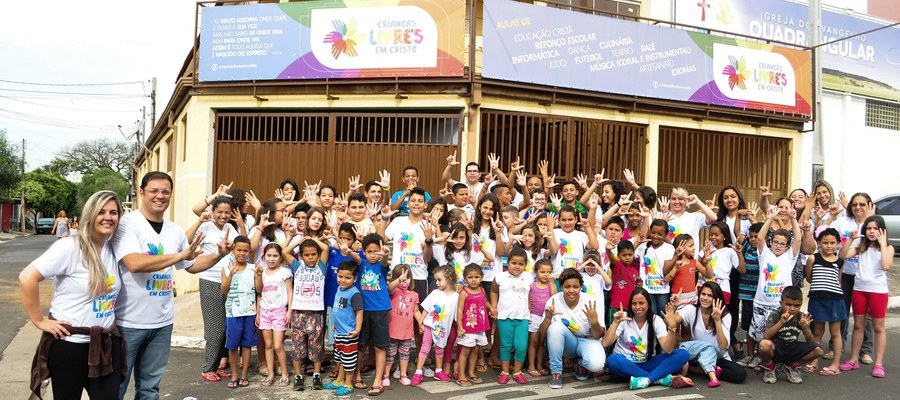
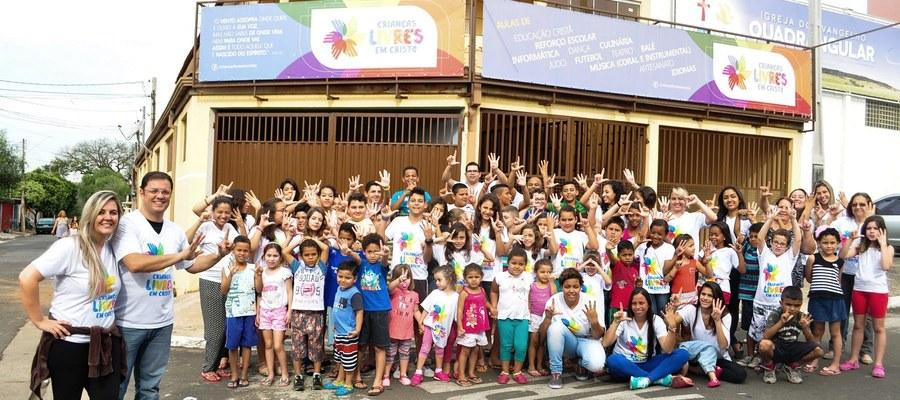
Corrige apontamentos da revisão: CI, hover do menu, layout e contraste do rodapé, e otimização de imagens

diff --git a/_includes/footer.html b/_includes/footer.html
@@ -30,15 +30,15 @@
                            <h4 class="footer-title">Google &amp; Rotas<span class="title-under"></span></h4>
                            <div class="footer-content">
                                <div class="footer-btn-group">
-                                   <a href="https://share.google/6BwTFtGyFWWkxHZKV" target="_blank" rel="noopener noreferrer" class="footer-btn footer-btn-google" aria-label="Avalie e pesquise a ALEC no Google">
+                                   <a href="https://share.google/6BwTFtGyFWWkxHZKV" target="_blank" rel="noopener noreferrer" class="footer-btn footer-btn-google">
                                        {% include icone.html nome="google" %}
-                                       <span>Google <strong>5.0 ★</strong></span>
+                                       <span>Google Avaliações</span>
                                    </a>
-                                   <a href="https://maps.app.goo.gl/Me2wtAXifTX4nmbC6" target="_blank" rel="noopener noreferrer" class="footer-btn footer-btn-maps" aria-label="Ver localização no Google Maps">
+                                   <a href="https://maps.app.goo.gl/Me2wtAXifTX4nmbC6" target="_blank" rel="noopener noreferrer" class="footer-btn footer-btn-maps">
                                        {% include icone.html nome="local" %}
                                        <span>Google Mapas</span>
                                    </a>
-                                   <a href="https://ul.waze.com/ul?place=ChIJL2dBZ3GbyJQRQBOxPps2tz0&ll=-22.71400230%2C-47.35630850&navigate=yes&utm_campaign=default&utm_source=waze_website&utm_medium=lm_share_location" target="_blank" rel="noopener noreferrer" class="footer-btn footer-btn-waze" aria-label="Navegar até a ALEC com o Waze">
+                                   <a href="https://ul.waze.com/ul?place=ChIJL2dBZ3GbyJQRQBOxPps2tz0&ll=-22.71400230%2C-47.35630850&navigate=yes&utm_campaign=default&utm_source=waze_website&utm_medium=lm_share_location" target="_blank" rel="noopener noreferrer" class="footer-btn footer-btn-waze">
                                        {% include icone.html nome="waze" %}
                                        <span>Waze GPS</span>
                                    </a>
@@ -47,22 +47,22 @@
                        </div>
                    </div>
 
-                   <div class="clearfix visible-sm-block"></div>
+                   <div class="footer-clear-sm"></div>
 
                    <div class="col-md-3 col-sm-6">
                        <div class="footer-col">
                            <h4 class="footer-title">Redes Sociais<span class="title-under"></span></h4>
                            <div class="footer-content">
                                <div class="footer-btn-group">
-                                   <a href="https://www.instagram.com/eusoualec/" target="_blank" rel="noopener noreferrer" class="footer-btn footer-btn-instagram" aria-label="Perfil da ALEC no Instagram">
+                                   <a href="https://www.instagram.com/eusoualec/" target="_blank" rel="noopener noreferrer" class="footer-btn footer-btn-instagram">
                                        {% include icone.html nome="instagram" %}
                                        <span>Instagram</span>
                                    </a>
-                                   <a href="https://www.facebook.com/eusoualec/" target="_blank" rel="noopener noreferrer" class="footer-btn footer-btn-facebook" aria-label="Página da ALEC no Facebook">
+                                   <a href="https://www.facebook.com/eusoualec/" target="_blank" rel="noopener noreferrer" class="footer-btn footer-btn-facebook">
                                        {% include icone.html nome="facebook" %}
                                        <span>Facebook</span>
                                    </a>
-                                   <a href="https://www.youtube.com/@alec-associa%C3%A7%C3%A3olivresemcristo" target="_blank" rel="noopener noreferrer" class="footer-btn footer-btn-youtube" aria-label="Canal da ALEC no YouTube">
+                                   <a href="https://www.youtube.com/@alec-associa%C3%A7%C3%A3olivresemcristo" target="_blank" rel="noopener noreferrer" class="footer-btn footer-btn-youtube">
                                        {% include icone.html nome="youtube" %}
                                        <span>YouTube</span>
                                    </a>

diff --git a/assets/css/style.css b/assets/css/style.css
@@ -1036,7 +1036,7 @@ img[alt=Fundadores] { width: 100%; }
 }
 .navbar-main .nav-item-contribua > a:hover,
 .navbar-main .nav-item-contribua > a:focus {
-  background: #fff;
+  background: #fff !important;
   color: #1f76bd !important;
 }
 
@@ -1082,18 +1082,33 @@ img[alt=Fundadores] { width: 100%; }
   color: #111111;
 }
 .footer-btn-maps {
-  background: #1a73e8;
+  background: #1565c0;
 }
 .footer-btn-waze {
   background: #00b0e8;
+  color: #111111;
+}
+.footer-btn-waze:hover,
+.footer-btn-waze:focus {
+  color: #111111;
 }
 .footer-btn-instagram {
-  background: linear-gradient(45deg, #f09433 0%, #e6683c 25%, #dc2743 50%, #cc2366 75%, #bc1888 100%);
+  background: linear-gradient(45deg, #ba3d00 0%, #b82e5c 35%, #8a1f78 70%, #5a187a 100%);
 }
 .footer-btn-facebook {
-  background: #1877f2;
+  background: #1064d4;
 }
 .footer-btn-youtube {
-  background: #ff0000;
+  background: #cd201f;
+}
+
+.footer-clear-sm {
+  display: none;
+}
+@media (min-width: 768px) and (max-width: 991px) {
+  .footer-clear-sm {
+    display: block;
+    clear: both;
+  }
 }
 
